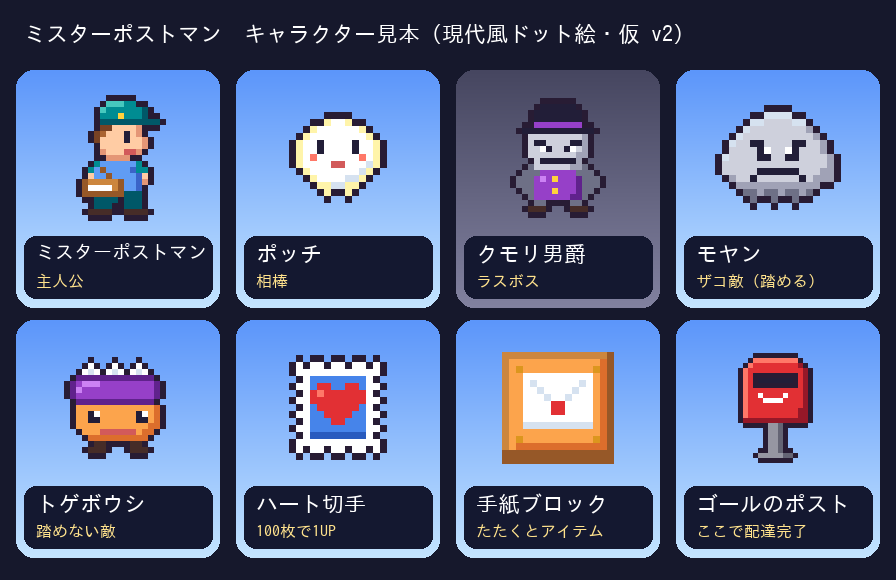
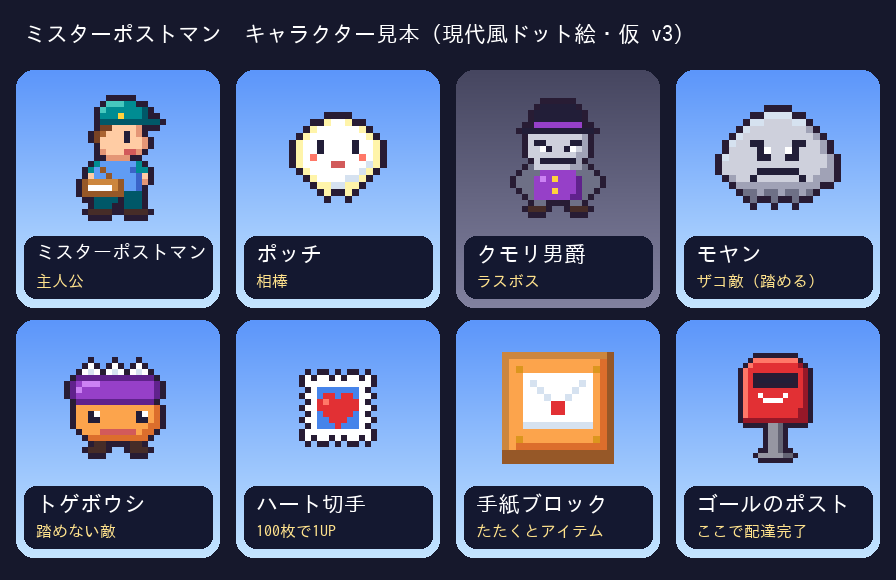
Add 1UP letter, rainbow scarf invincibility, onigiri; define block contents; shrink stamp
Claude-Session: https://claude.ai/code/session_01TW5qwos1USpEvVC2mfW1Sd

Changed region(s): [[0.3125, 0.5897, 0.4375, 0.8069]]

diff --git a/tools/make_sample_images.py b/tools/make_sample_images.py
@@ -133,20 +133,18 @@ TOGE = [
     "....kk....kk....",
     "...kkk....kkk...",
 ]
-STAMP = [
-    "W.WW.WW.WW.W",
-    "WWWWWWWWWWWW",
-    ".WBBBBBBBBW.",
-    "WWBRRBBRRBWW",
-    ".WRrRRRRRRW.",
-    "WWRRRRRRRRWW",
-    ".WBRRRRRRBW.",
-    "WWBBRRRRBBWW",
-    ".WBBBRRBBBW.",
-    "WWBBBBBBBBWW",
-    ".WCCCCCCCCW.",
-    "WWWWWWWWWWWW",
-    "W.WW.WW.WW.W",
+STAMP = [  # v3: 12x13 -> 11x11 (少し小さく)
+    "W.WW.W.WW.W",
+    "WWWWWWWWWWW",
+    ".WBBBBBBBW.",
+    "WWBRRBRRBWW",
+    ".WRrRRRRRW.",
+    "WWRRRRRRRWW",
+    ".WBRRRRRBW.",
+    "WWBBRRRBBWW",
+    ".WBBBRBBBW.",
+    "WWWWWWWWWWW",
+    "W.WW.W.WW.W",
 ]
 GEM = [
     "...AA...",
@@ -366,7 +364,7 @@ def draw_world():
         sc.alpha_composite(PLANK, (x, GY - 50))
     shadow = Image.new('RGBA', (64, 3), (0, 0, 0, 50)); sc.alpha_composite(shadow, (96, GY - 44))
     sc.alpha_composite(S['LETTERBLK'], (120, GY - 98))
-    for x, y in ((98, GY - 68), (144, GY - 68), (186, GY - 46), (202, GY - 46)):
+    for x, y in ((99, GY - 66), (145, GY - 66), (187, GY - 44), (202, GY - 44)):
         sc.alpha_composite(S['STAMP'], (x, y))
     # ground shadows under characters
     def foot_shadow(cx, w=12):
@@ -454,7 +452,7 @@ cw, ch = 220, 250
 sheet = Image.new('RGB', (cw * 4 + 16, ch * 2 + 80), (22, 24, 44))
 sd = ImageDraw.Draw(sheet)
 F = font(JP, 22); Fs = font(JP, 16)
-sd.text((24, 22), "ミスターポストマン　キャラクター見本（現代風ドット絵・仮 v2）", font=F, fill=(255, 255, 255))
+sd.text((24, 22), "ミスターポストマン　キャラクター見本（現代風ドット絵・仮 v3）", font=F, fill=(255, 255, 255))
 for i, (k, n, desc) in enumerate(items):
     cx = 8 + (i % 4) * cw; cy = 70 + (i // 4) * ch
     card = Image.new('RGBA', (cw - 16, ch - 12))
@@ -465,7 +463,7 @@ for i, (k, n, desc) in enumerate(items):
     mask = Image.new('L', card.size, 0)
     ImageDraw.Draw(mask).rounded_rectangle((0, 0, card.size[0] - 1, card.size[1] - 1), 18, fill=255)
     sheet.paste(card, (cx + 8, cy), mask)
-    im = S[k]; s = 7 if im.size[1] <= 16 else (6 if im.size[1] <= 21 else 5)
+    im = S[k]; s = 6 if k == 'STAMP' else (7 if im.size[1] <= 16 else (6 if im.size[1] <= 21 else 5))
     big = im.resize((im.size[0] * s, im.size[1] * s), Image.NEAREST)
     sheet.paste(big, (cx + cw // 2 - big.size[0] // 2, cy + 18 + (140 - big.size[1]) // 2), big)
     sd.rounded_rectangle((cx + 16, cy + ch - 84, cx + cw - 16, cy + ch - 22), 12, fill=(20, 24, 48))
@@ -483,3 +481,182 @@ bd.text((12, 16), "クリア前：色をうばわれた世界", font=F, fill=(20
 bd.text((W * 2 + 32, 16), "クリア後：色がもどる！", font=F, fill=(255, 226, 120))
 ba.save(f"{OUT}/sample_color_return.png")
 print("ok")
+
+# ================================================================ items (v3)
+P.update({
+    'f': (255, 182, 210), 'j': (230, 110, 160),                 # pink envelope
+    'c': (214, 170, 110), 'x': (170, 124, 70), 'X': (240, 206, 150),  # cardboard
+    'e': (60, 60, 70),                                          # nori
+})
+LETTER_1UP = [
+    "jjjjjjjjjjjjjjjj",
+    "jfjffffffffffjfj",
+    "jffjffffffffjffj",
+    "jfffjffffffjfffj",
+    "jffffjfRRfjffffj",
+    "jfffffRrRRfffffj",
+    "jffffffRRffffffj",
+    "jffffffffffffffj",
+    "jffffffffffffffj",
+    "jjjjjjjjjjjjjjjj",
+]
+ONIGIRI = [
+    "......WW......",
+    ".....WWWW.....",
+    "....WWWWWW....",
+    "...WWWWWWWW...",
+    "..WWWWWWWWww..",
+    ".WWWWWWWWWWww.",
+    ".WWWeeeeeeWww.",
+    "WWWWeeeeeeWwww",
+    "WWWWeeeeeewwww",
+    ".wwweeeeeewww.",
+]
+BOOTS = [
+    "..TTTT.....TTTT.",
+    "..TttT.....TttT.",
+    "..TTTT.....TTTT.",
+    "..TTTTTT...TTTTTT",
+    "..kkkkkk...kkkkkk",
+    "...ZzZ......ZzZ..",
+    "....Z........Z...",
+    "...ZzZ......ZzZ..",
+    "....Z........Z...",
+    "..zzzzz....zzzzz.",
+]
+LANTERN = [
+    ".....ZZZZ.....",
+    "....Z....Z....",
+    "...zzzzzzzz...",
+    "...zGGGGGGz...",
+    "...zGYYYYGz...",
+    "...zGYWWYGz...",
+    "...zGYWWYGz...",
+    "...zGYYYYGz...",
+    "...zGGGGGGz...",
+    "...zzzzzzzz...",
+    "....zzzzzz....",
+]
+PLANE = [
+    "WW..............",
+    ".wWWW...........",
+    "..wwWWWWW.......",
+    "...wwwWWWWWWW...",
+    "....wwwwWWWWWWWW",
+    "....wwwwwwwWW...",
+    "...wwlllww......",
+    "..wll...........",
+    ".ll.............",
+]
+PARCEL = [
+    "xxxxxxxRRxxxxxxx",
+    "xXXXXXXRRXXXXXXx",
+    "xXccccccRccccccx",
+    "xXccccccRccccccx",
+    "xXccccccRccccccx",
+    "xXccccccRccccccx",
+    "RRRRRRRRRRRRRRRR",
+    "RRRRRRRRRRRRRRRR",
+    "xXccccccRccccccx",
+    "xXcccccRrRcccccx",
+    "xXccccccRccccccx",
+    "xXccccccRccccccx",
+    "xXccccccRccccccx",
+    "xxxxxxxxRxxxxxxx",
+    "xxxxxxxxxxxxxxxx",
+]
+
+
+def scarf():
+    cols = [P['R'], P['O'], P['Y'], (110, 210, 70), P['B'], P['P']]
+    im = Image.new('RGBA', (22, 18), (0, 0, 0, 0))
+    for x in range(22):
+        yo = int(round(2.5 * math.sin(x * 0.45))) + 3
+        for i, c in enumerate(cols):
+            im.putpixel((x, yo + i * 2), c + (255,))
+            im.putpixel((x, yo + i * 2 + 1), c + (255,))
+    for x in (18, 20):            # fringe
+        im.putpixel((x, 17), cols[5] + (255,))
+    out = Image.new('RGBA', (24, 20), (0, 0, 0, 0)); out.paste(im, (1, 1))
+    src = out.copy()
+    for y in range(out.size[1]):
+        for x in range(out.size[0]):
+            if src.getpixel((x, y))[3]:
+                continue
+            for dx, dy in ((1, 0), (-1, 0), (0, 1), (0, -1)):
+                nx, ny = x + dx, y + dy
+                if 0 <= nx < out.size[0] and 0 <= ny < out.size[1] and src.getpixel((nx, ny))[3]:
+                    out.putpixel((x, y), P['K'] + (255,)); break
+    return out
+
+
+def hidden_block():
+    im = Image.new('RGBA', (16, 16), (0, 0, 0, 0))
+    d = ImageDraw.Draw(im)
+    for i in range(0, 16, 2):
+        for (x, y) in ((i, 0), (i, 15), (0, i), (15, i)):
+            d.point((x, y), fill=(255, 255, 255, 170))
+    for dx, dy in ((0, 0), (1, 0), (-1, 0), (0, 1), (0, -1), (0, 2), (0, -2), (2, 0), (-2, 0)):
+        d.point((8 + dx, 8 + dy), fill=(255, 255, 255, 150))
+    return im
+
+
+def invincible():
+    base = S['POSTMAN'].copy()
+    rainbow = [(255, 90, 90), (255, 170, 60), (255, 230, 80), (110, 220, 90), (90, 160, 255), (190, 110, 255)]
+    w, h = base.size
+    for y in range(h):
+        for x in range(w):
+            r, g, b, a = base.getpixel((x, y))
+            if a and (r, g, b) != P['K']:
+                c = rainbow[((x + y) // 3) % len(rainbow)]
+                base.putpixel((x, y), lerp((r, g, b), c, 0.45) + (255,))
+    out = Image.new('RGBA', (w + 8, h + 4), (0, 0, 0, 0)); out.paste(base, (4, 2))
+    for sx, sy in ((1, 3), (w + 5, 6), (2, h - 2), (w + 6, h - 5)):
+        for dx, dy in ((0, 0), (1, 0), (-1, 0), (0, 1), (0, -1)):
+            out.putpixel((sx + dx, sy + dy), P['G'] + (255,))
+    return out
+
+
+for k, v in dict(LETTER_1UP=LETTER_1UP, ONIGIRI=ONIGIRI, BOOTS=BOOTS, LANTERN=LANTERN, PLANE=PLANE).items():
+    S[k] = spr(v)
+S['PARCEL'] = spr(PARCEL, outline=False)
+S['SCARF'] = scarf()
+S['HIDDEN'] = hidden_block()
+S['INVINCIBLE'] = invincible()
+
+groups = [
+    ("集めもの・回復", [('STAMP', 'ハート切手', '100枚で1UP'), ('LETTER_1UP', 'はげましの手紙', '1UP（のこり+1）'),
+                   ('SCARF', 'ニジのスカーフ', '約8秒むてき'), ('ONIGIRI', 'おにぎり', 'ハート1つ回復')]),
+    ("パワーアップ", [('BOOTS', 'バネぐつ', '2段ジャンプ'), ('LANTERN', 'ランタン', '光の玉を投げる'),
+                 ('PLANE', '紙ひこうきマント', '長押しで滑空'), ('INVINCIBLE', 'むてき中のすがた', '虹色に光る')]),
+    ("ブロック", [('LETTERBLK', '手紙ブロック', 'アイテムが1つ出る'), ('PARCEL', '小包ブロック', '何回もたたける'),
+              ('HIDDEN', 'かくしブロック', '見えない・1UPなど'), ('POSTMAN', '（大きさ比較）', '主人公')]),
+]
+cw, ch = 220, 230
+IS = 5   # すべて同じ倍率 → 実際の大きさの比率がわかる
+sheet = Image.new('RGB', (cw * 4 + 16, 70 + len(groups) * (ch + 40)), (22, 24, 44))
+sd = ImageDraw.Draw(sheet)
+sd.text((24, 22), "ミスターポストマン　アイテム見本（仮 v3・すべて同じ倍率）", font=F, fill=(255, 255, 255))
+y0 = 70
+for title, row in groups:
+    sd.text((24, y0), "■ " + title, font=Fs, fill=(150, 200, 255))
+    for i, (k, n, desc) in enumerate(row):
+        cx = 8 + i * cw; cy = y0 + 28
+        card = Image.new('RGBA', (cw - 16, ch - 12))
+        cd = ImageDraw.Draw(card)
+        for yy in range(card.size[1]):
+            cd.line((0, yy, card.size[0], yy), fill=lerp((92, 150, 250), (196, 228, 255), yy / card.size[1]) + (255,))
+        mask = Image.new('L', card.size, 0)
+        ImageDraw.Draw(mask).rounded_rectangle((0, 0, card.size[0] - 1, card.size[1] - 1), 18, fill=255)
+        sheet.paste(card, (cx + 8, cy), mask)
+        im = S[k]
+        big = im.resize((im.size[0] * IS, im.size[1] * IS), Image.NEAREST)
+        sheet.paste(big, (cx + cw // 2 - big.size[0] // 2, cy + 14 + (124 - big.size[1]) // 2), big)
+        sd.rounded_rectangle((cx + 16, cy + ch - 84, cx + cw - 16, cy + ch - 22), 12, fill=(20, 24, 48))
+        sd.text((cx + 28, cy + ch - 78), n, font=F if len(n) <= 7 else font(JP, 18), fill=(255, 255, 255))
+        sd.text((cx + 28, cy + ch - 48), desc, font=Fs, fill=(255, 226, 140))
+    y0 += ch + 40
+sheet.save(f"{OUT}/sample_items.png")
+print("items ok")
+

diff --git a/docs/PLAN.md b/docs/PLAN.md
@@ -8,7 +8,7 @@
 | 項目 | 決定内容 |
 |---|---|
 | タイトル | **ミスターポストマン** |
-| 見た目 | **ファミコン風をベースにした現代風ドット絵**（陰影・グラデーションの空・遠景を加え、操作ボタンや表示はなめらかに） → サンプルv2で確認中 |
+| 見た目 | **ファミコン風をベースにした現代風ドット絵**（陰影・グラデーションの空・遠景を加え、操作ボタンや表示はなめらかに） → サンプルv3で確認中 |
 | 対象年齢 | **小学校高学年以上** |
 | 公開方法 | **まずはWeb**（スマホのブラウザで遊ぶ） |
 | ストーリー量 | **会話は1場面あたり2〜5往復**。小学生が理解できる言葉で、短く |
@@ -24,7 +24,7 @@
 
 ---
 
-## 2. 見た目サンプル（現代風ドット絵・仮 v2）
+## 2. 見た目サンプル（現代風ドット絵・仮 v3）
 
 - キャラクターは**ドット絵のまま**、色の段階（明るい所・影）を増やし、ふちどりを付けて見やすくする。
 - 空はグラデーション、奥に山と丘を重ねて**奥行き**を出す（スクロール時は奥ほどゆっくり動かす）。
@@ -128,26 +128,82 @@
 
 - 右へ進み、ステージ最後の「**ポスト**」に触れるとクリア（配達完了）。
 - 敵は**上から踏む**と倒せる。横から当たるとダメージ。
-- ライフ：ハート3つ（穴に落ちると即ミス）。チェックポイントあり。
-- 集めるもの
-  - **ハート切手**：100枚で1UP（郵便屋さんらしい集めもの。「無敵になる星」と見間違えないよう、星の形は使わない）
-  - **ヒカリのかけら**：各ステージに3個隠されている（やりこみ要素）
-- **手紙ブロック**：下からたたくとアイテムが出る。
+- **体力＝ハート3つ**、**のこり人数＝ミスできる回数**（はじめは3人）。
+  - ダメージを受けたとき：パワーアップ中なら**パワーアップがなくなるだけ**。何も持っていなければハートが1つ減る。
+  - ハートが0になる、または穴に落ちると「ミス」になり、のこり人数が1減ってチェックポイントから再開。
+- **ヒカリのかけら**：各ステージに3個隠されている（やりこみ要素）。
 
 ### 難しさ（小学校高学年以上向け）
 - 1章はやさしく、章が進むごとに少しずつ難しくする。
 - 3章以降は「動く足場」「すべる床」など、考えて跳ぶ場面を入れる。
 - ミスしても、チェックポイントからすぐ再開できるようにして、イライラを減らす。
 
-### パワーアップ
+---
+
+## 7. アイテム
+
+見本：`images/sample_items.png`（すべて同じ倍率で描いてあるので、大きさの比べ合いができる）
+
+![アイテム見本](images/sample_items.png)
+
+### 7-1. 集めもの・回復
+
+| アイテム | 効果 | 見た目 | どこで手に入る |
+|---|---|---|---|
+| **ハート切手** | 100枚で1UP | 青地に赤いハートの切手（v3で少し小さくした） | ステージに並んでいる／ブロック |
+| **はげましの手紙** | **1UP**（のこり人数+1） | ピンクの封筒、赤いハートのふう | かくしブロック・見つけにくい場所（1ステージ0〜1個） |
+| **ニジのスカーフ** | **約8秒むてき** | 虹色のスカーフ | 手紙ブロック（1ワールドに1〜2個のレアもの） |
+| **おにぎり** | ハートを1つ回復 | おにぎり | 手紙ブロック（ボスの前など） |
+
+### 7-2. むてき（ニジのスカーフ）のくわしいルール
+- 取ると主人公が**虹色に光り**、キラキラが出る。BGMがむてき用に変わる。
+- **約8秒間**、敵にさわるだけで倒せる。トゲボウシも倒せる。
+- 終わる**2秒前から点めつ**して、終わりが近いことを知らせる。
+- **穴に落ちたときは助からない**（むてきでもミス）。
+- 走る速さが少しだけ上がる（気持ちよさを出すため）。
+
+### 7-3. パワーアップ（1つだけ持てる）
+
 | アイテム | 効果 |
 |---|---|
-| バネぐつ | 2段ジャンプ |
-| ランタン | 光の玉を投げて敵を倒す |
-| 紙ひこうきマント | 長押しでゆっくり滑空 |
-| 大きな配達カバン | ダメージを1回防ぐ |
+| **バネぐつ** | 2段ジャンプ |
+| **ランタン** | 光の玉を投げて敵を倒す |
+| **紙ひこうきマント** | 長押しでゆっくり滑空 |
 
-### 敵キャラ
+- パワーアップは**1つだけ**持てる。新しいものを取ると入れかわる。
+- ダメージを受けるとパワーアップがなくなる（＝ハートの代わりに1回守ってくれる）。
+- 前の案の「大きな配達カバン（ダメージを1回防ぐ）」は、このルールで同じ役目になるため**なくした**。
+
+---
+
+## 8. ブロックと中身
+
+### 8-1. ブロックの種類
+
+| ブロック | 見た目 | 動き |
+|---|---|---|
+| **手紙ブロック** | オレンジのわく＋手紙のマーク | 下からたたくと**中身が1つ**出る。出たあとは空ブロック（茶色）になる |
+| **小包ブロック** | ダンボール＋赤いひも | たたくたびに**ハート切手が1枚**出る。最大10回まで |
+| **かくしブロック** | ふだんは見えない | その場所で下からジャンプすると出てくる。**はげましの手紙（1UP）**が入っていることが多い |
+
+### 8-2. 手紙ブロックの中身
+
+| 中身 | 出る量の目安（1ステージあたり） | 置き方 |
+|---|---|---|
+| ハート切手 1枚 | 多い（手紙ブロックの半分くらい） | どこにでも |
+| パワーアップ（バネぐつ・ランタン・マント） | 1〜2個 | そのステージで役に立つものを置く（高い所が多い面ならバネぐつ、など） |
+| おにぎり | 0〜1個 | ボスの前、むずかしい場所の前 |
+| ニジのスカーフ | 1ワールドに1〜2個 | 敵がたくさん出る場所の直前 |
+| はげましの手紙（1UP） | 0〜1個 | かくしブロック・遠回りした先 |
+
+### 8-3. 中身のルール
+- 中身は**ランダムではなく、ステージごとに決めて置く**。毎回同じなので、覚えて攻略できる。
+- パワーアップは**今持っているものと同じ**なら、代わりにハート切手5枚になる。
+- 中身は**出てくるまで見えない**。ただし、パワーアップが入った手紙ブロックは少しだけキラッと光る（小学生でも気づけるように）。
+
+---
+
+## 9. 敵キャラ
 - **モヤン**：歩くだけの灰色の雲。踏める。
 - **トゲボウシ**：頭にトゲ。踏めない。
 - **パタクモ**：空を上下に飛ぶ。
@@ -155,7 +211,7 @@
 
 ---
 
-## 7. スマホ操作
+## 10. スマホ操作
 
 - **画面は横向き**。
 - 左下：**◀・▶ボタン**、右下：**JUMP（大）**と**ACT（小）**、右上：**一時停止**。
@@ -168,7 +224,7 @@
 
 ---
 
-## 8. 技術方針
+## 11. 技術方針
 
 | 項目 | 方針 |
 |---|---|
@@ -182,7 +238,7 @@
 
 ---
 
-## 9. 開発の進め方
+## 12. 開発の進め方
 
 | 段階 | 内容 | 完成の目安 |
 |---|---|---|
@@ -195,7 +251,7 @@
 
 ---
 
-## 10. 注意点（権利）
+## 13. 注意点（権利）
 
 - ジャンル（横スクロールで跳んで敵を踏む）自体は自由に使えるが、既存ゲームのキャラクター・絵・音楽・ステージ配置はまねない。
 - 外部の絵や音を使う場合は、利用規約（商用利用・クレジット表記）を確認する。
